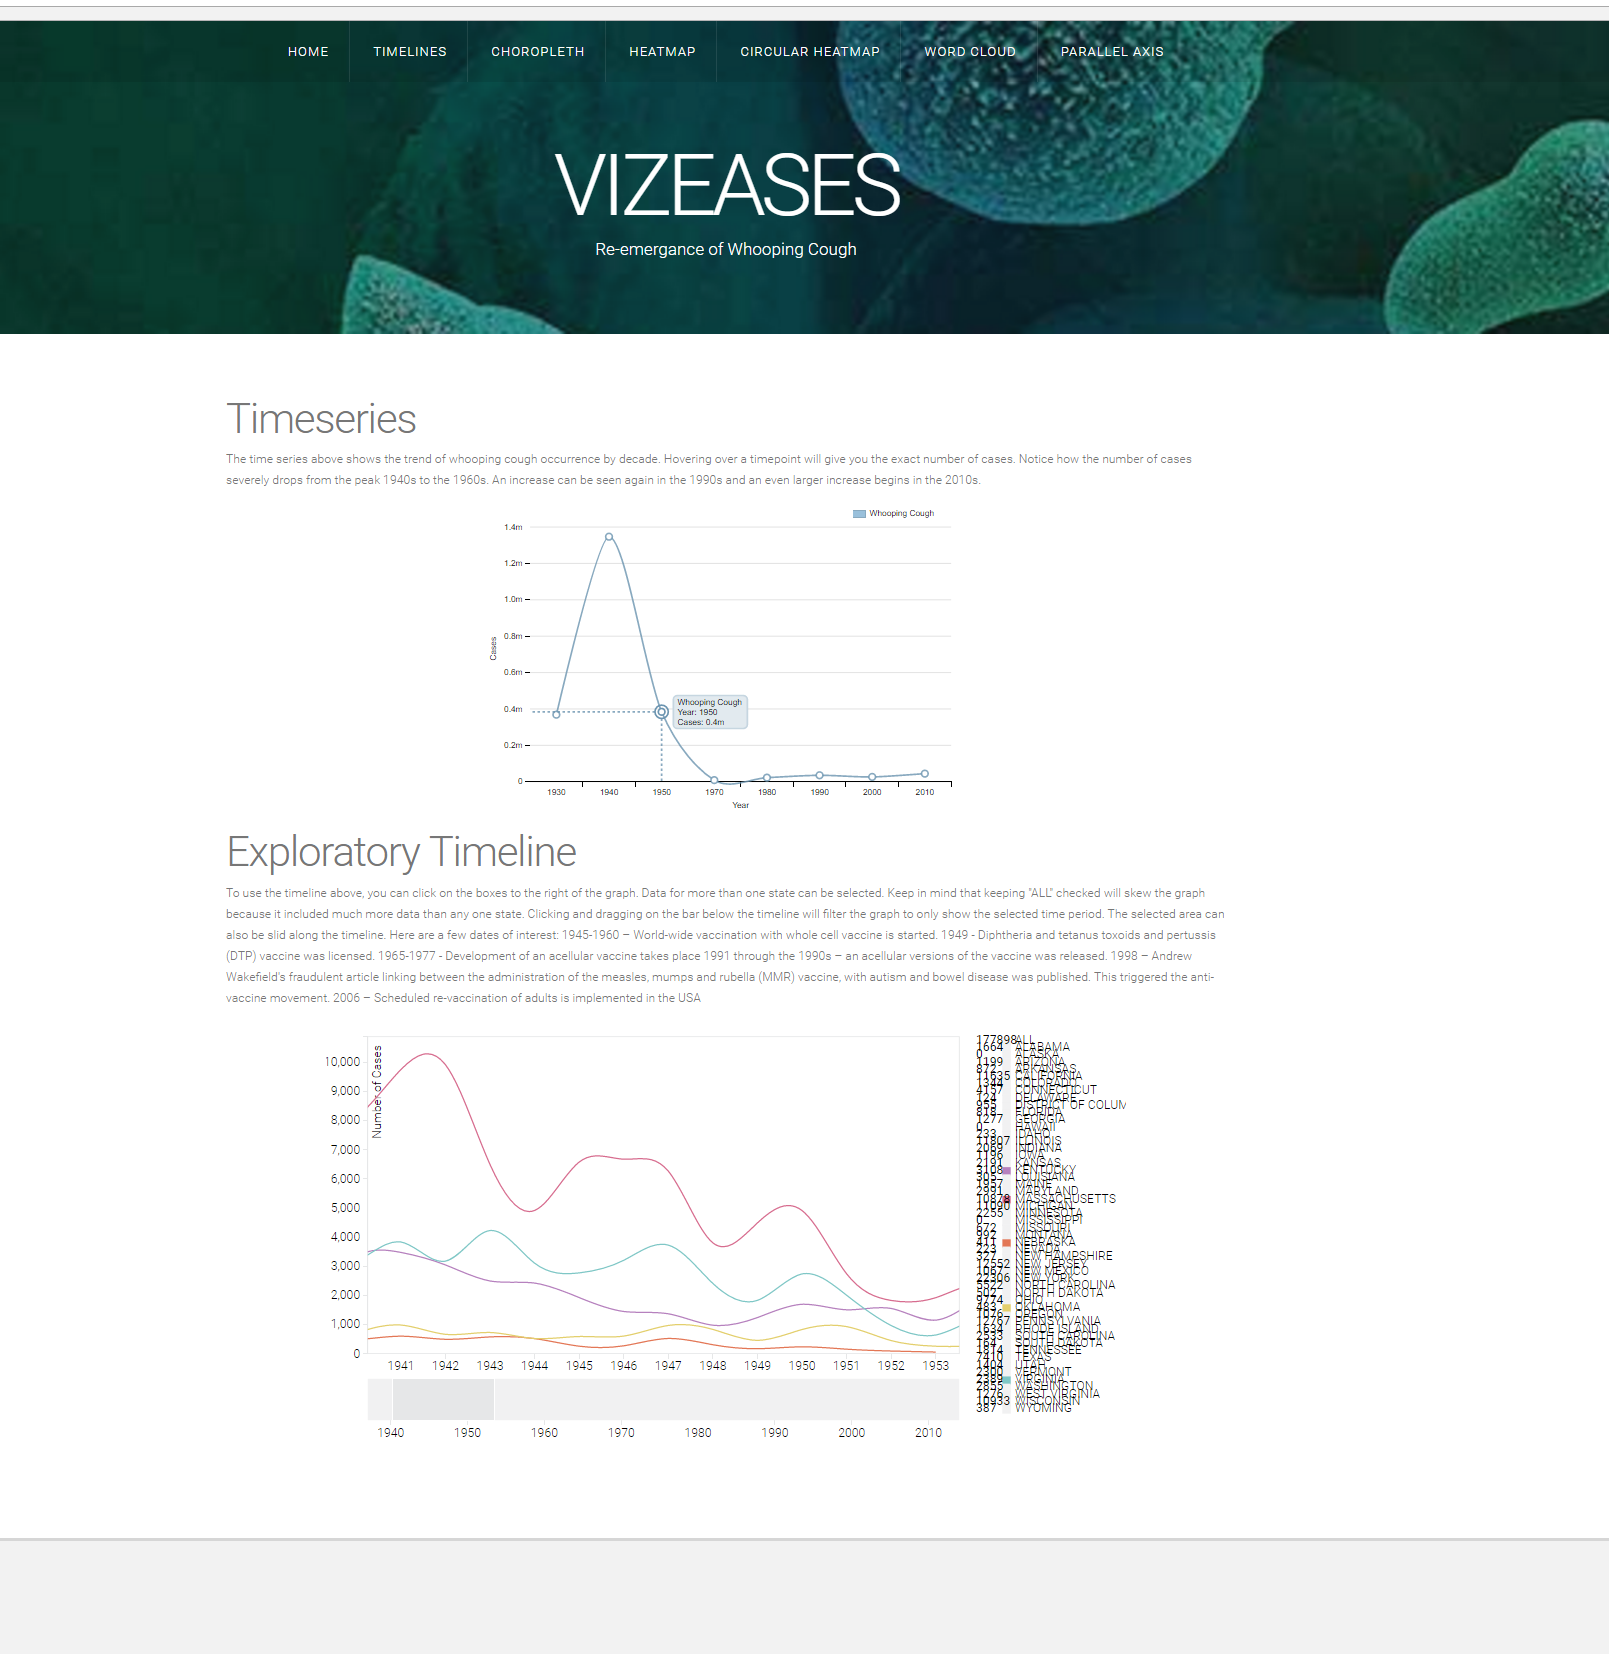
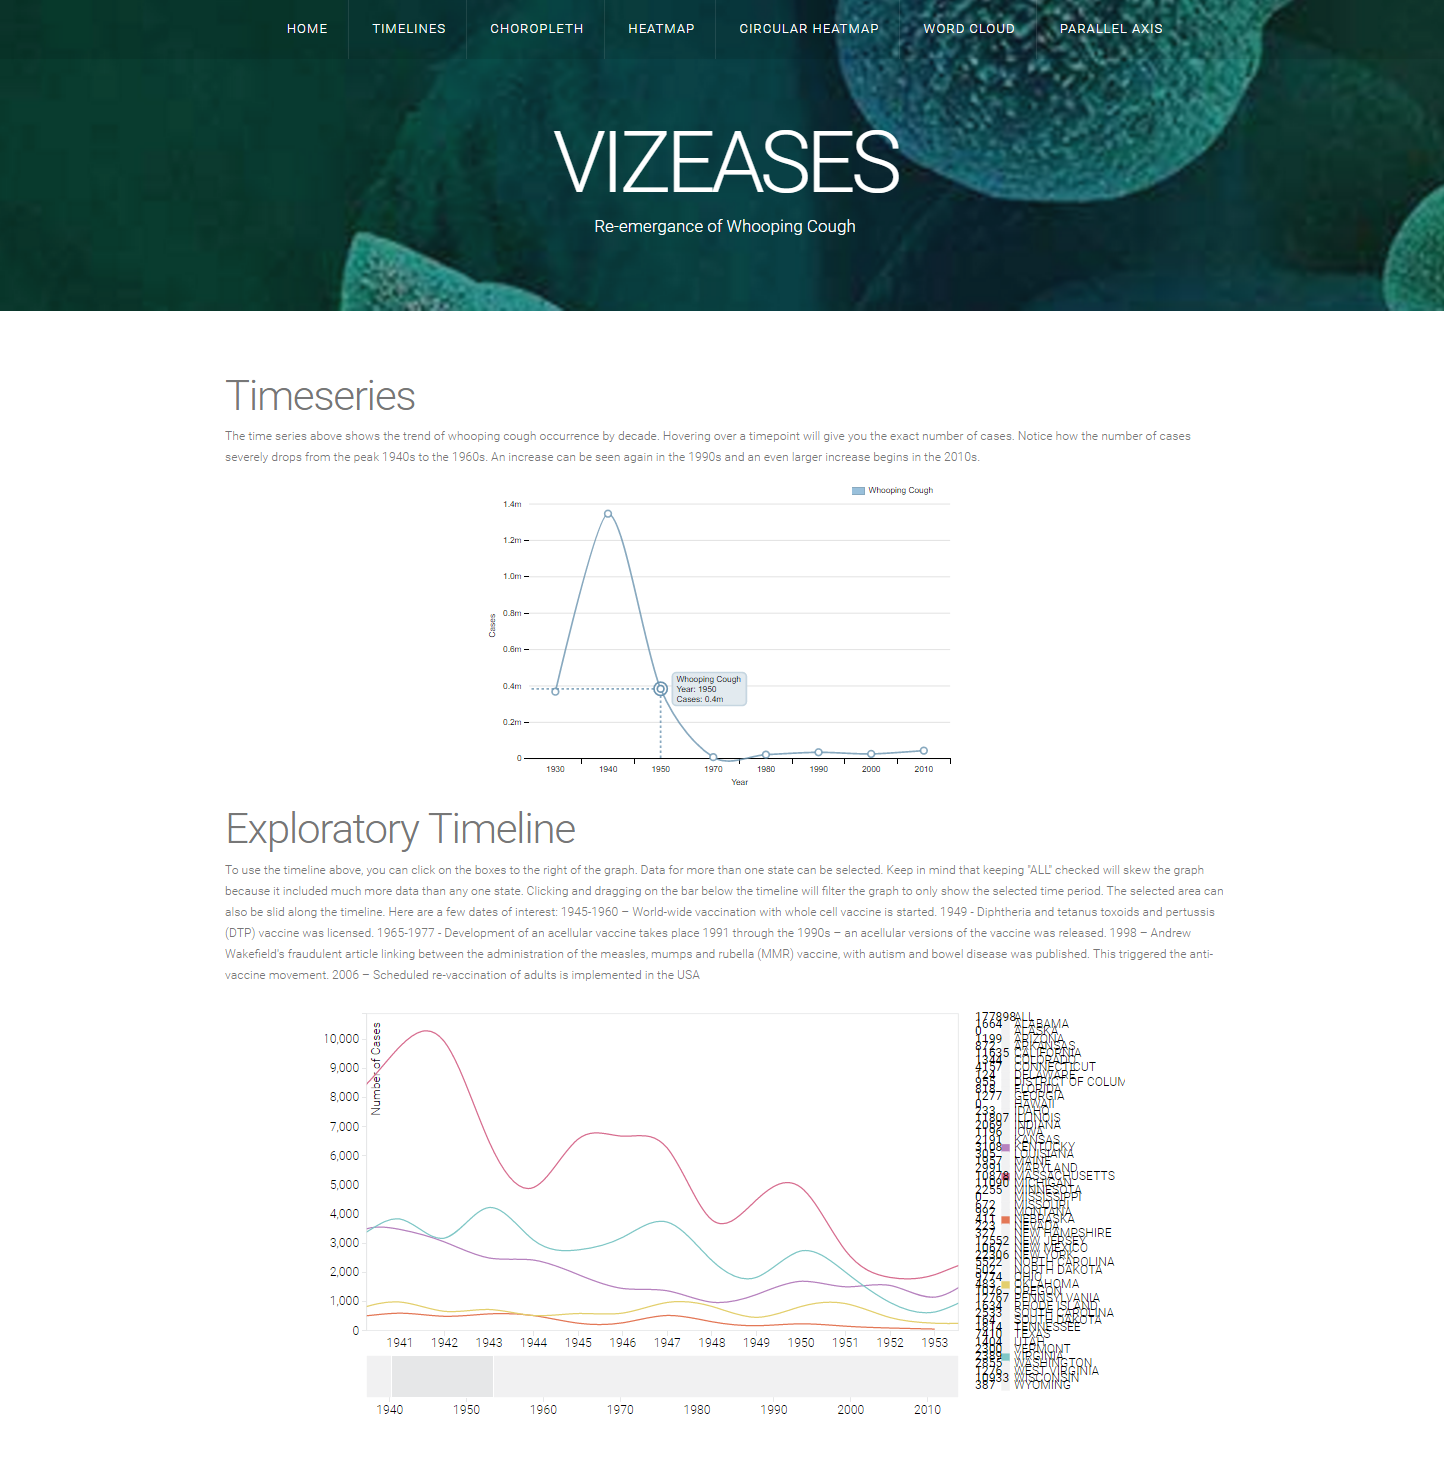
Style changes

diff --git a/newWeb/index.html b/newWeb/index.html
@@ -8,22 +8,22 @@
 </head>
 
 <body align ="center">
-<div id="head">
-<br>
-<h3>InfSci 2415 Final Project (Fall 2016)</h3>
-<h1>Vizeases: Re-emergence of Whopping Cough</h1>
-<h3>VENKATESH DUVVURI, BHARATHKUMAR INBASEKARAN, <br/> SETAREH SARACHI, SARAH VINSKI</h3><br>
+<div id="head" style="font-family:Times New Roman, Times, serif;">
+<h3>INFSCI 2415 Final Project (Fall 2016)</h3>
+<h1>Vizeases: Re-emergence of Whooping Cough</h1>
+<h3>Venkatesh Duvvuri (ved14) || BharathKumar Inbasekaran (bhi2)<br/>
+ 	Setareh Sarachi (ses188) || Sarah Vinski (sev52)</h3><br>
 </div>
-<div id="content" align="center">
-	<img src="index.png" alt="image" style="width:900px">
-	<p>Our timeline page showing a time series and an exploratory timeline of whooping cough cases.</p><br>
+<div id="content" align="center" style="font-family:Times New Roman, Times, serif;">
+	<img src="index.png" alt="image" style="width:670px">
+	<p>Our timeline page showing a time series and an exploratory timeline of whooping cough cases.</p>
 	<div style="width:900px" style="float:center">
 	<h3>Abstract</h3>
 	<p> In the past few years, multiple disease that were once under control are beginning to re-emerge.Pertussis, or whooping cough, is one of these re-emerging diseases. In 2010, California experienced nearly 10,000 reported whooping cough cases, the highest number it had seen 70 years. In 2014, the national level of whooping 
 	cough cases reached more than 48,000, which was higher than any count for the previous 6 decades. 
 	Project Tycho is a collaborative project at the University of Pittsburgh that consists of a large dataset containing all weekly surveillance reports of nationally notifiable diseases for all US cities and states published since 1888. Thus, our system employed visualizations and user interactions to introduce and explore the re-emergence of Whooping Cough.</p>
 	<h3>Demo</h3>
-	<p>Try it online <a href="home.html" target="_blank">here</a>.</p><br>
+	<p>Try it online <a href="home.html" target="_blank">here</a>.</p>
 	<h3>Documents</h3>
 	<p><a href="" target="_blank">Final Paper</a> | <a href="" target="_blank">Presentation Slides</a></p>
 	</div>

diff --git a/newWeb/css/style-desktop.css b/newWeb/css/style-desktop.css
@@ -31,6 +31,10 @@
 			font-size: 1.7em;
 		}
 
+	#contributors {
+		font-size:  2.5em;
+	}
+
 /*********************************************************************************/
 /* Header                                                                        */
 /*********************************************************************************/

diff --git a/newWeb/Parallel.html b/newWeb/Parallel.html
@@ -175,7 +175,7 @@ The graph is interactive. Click and drag along each parallel line to make a sele
 			<div class="container">
 				<section>
 					<header>
-						<h2>Contributors</h2>
+						<div id="contributors">Contributors</div>
 						
 					
 					<ul class="byline">

diff --git a/newWeb/time.html b/newWeb/time.html
@@ -538,7 +538,7 @@ d3.csv("csv/column_data.csv", function(error, data) {
 			<div class="container">
 				<section>
 					<header>
-						<h2>Contributors</h2>
+            <div id="contributors">Contributors</div>
 						
 					
 					<ul class="byline">

diff --git a/newWeb/cyctest.html b/newWeb/cyctest.html
@@ -202,7 +202,7 @@ and open the template in the editor.
 			<div class="container">
 				<section>
 					<header>
-						<h2>Contributors</h2>
+						<div id="contributors">Contributors</div>
 						
 					
 					<ul class="byline">

diff --git a/newWeb/heat_map.html b/newWeb/heat_map.html
@@ -500,7 +500,7 @@ c.hsl().toString()];*/
 			<div class="container">
 				<section>
 					<header>
-						<h2>Contributors</h2>
+            <div id="contributors">Contributors</div>
 						
 					
 					<ul class="byline">

diff --git a/newWeb/WordCloud.html b/newWeb/WordCloud.html
@@ -235,7 +235,7 @@
 			<div class="container">
 				<section>
 					<header>
-						<h2>Contributors</h2>
+            <div id="contributors">Contributors</div>
 						
 					
 					<ul class="byline">

diff --git a/newWeb/Choropleth.html b/newWeb/Choropleth.html
@@ -186,7 +186,7 @@
 			<div class="container">
 				<section>
 					<header>
-						<h2>Contributors</h2>
+						<div id="contributors">Contributors</div>
 						
 					
 					<ul class="byline">

diff --git a/newWeb/home.html b/newWeb/home.html
@@ -85,7 +85,7 @@
 			<div class="container">
 				<section>
 					<header>
-						<h2>Contributors</h2>
+						<div id="contributors">Contributors</div>
 						
 					
 					<ul class="byline">
